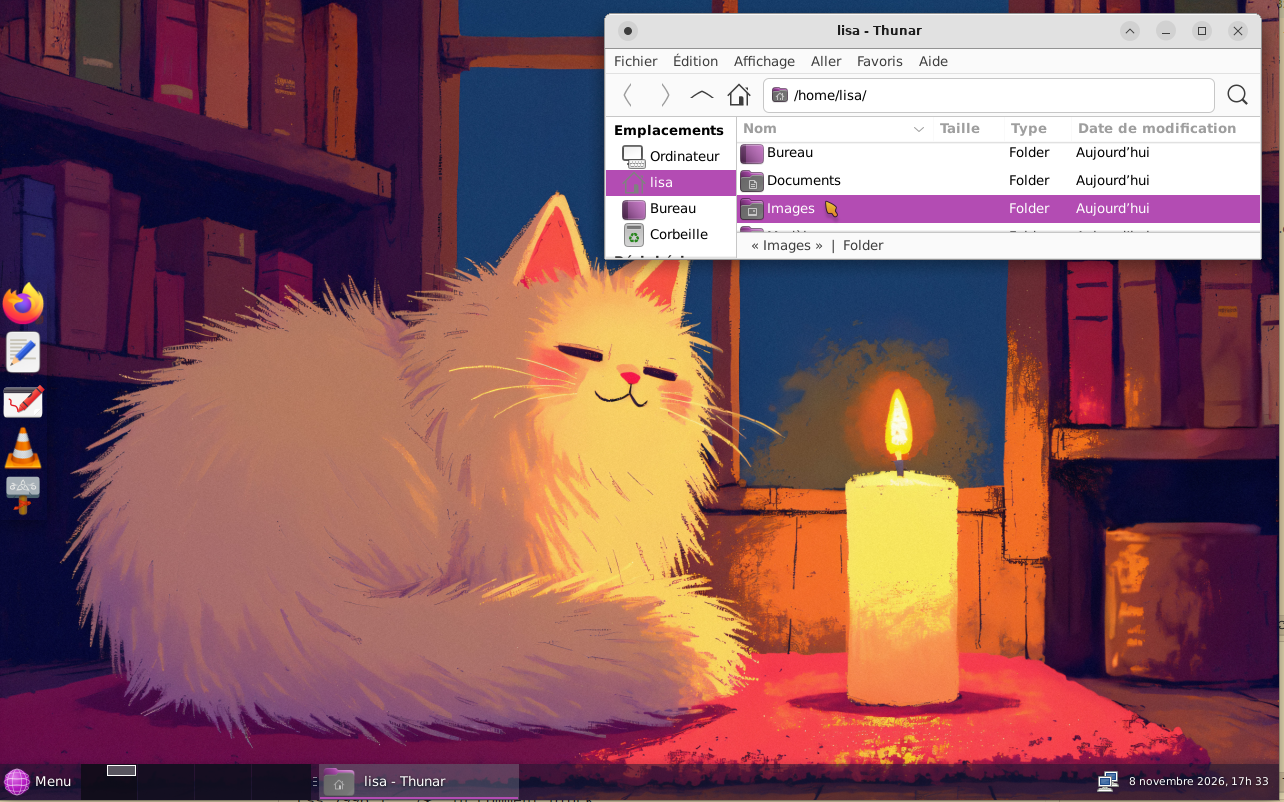
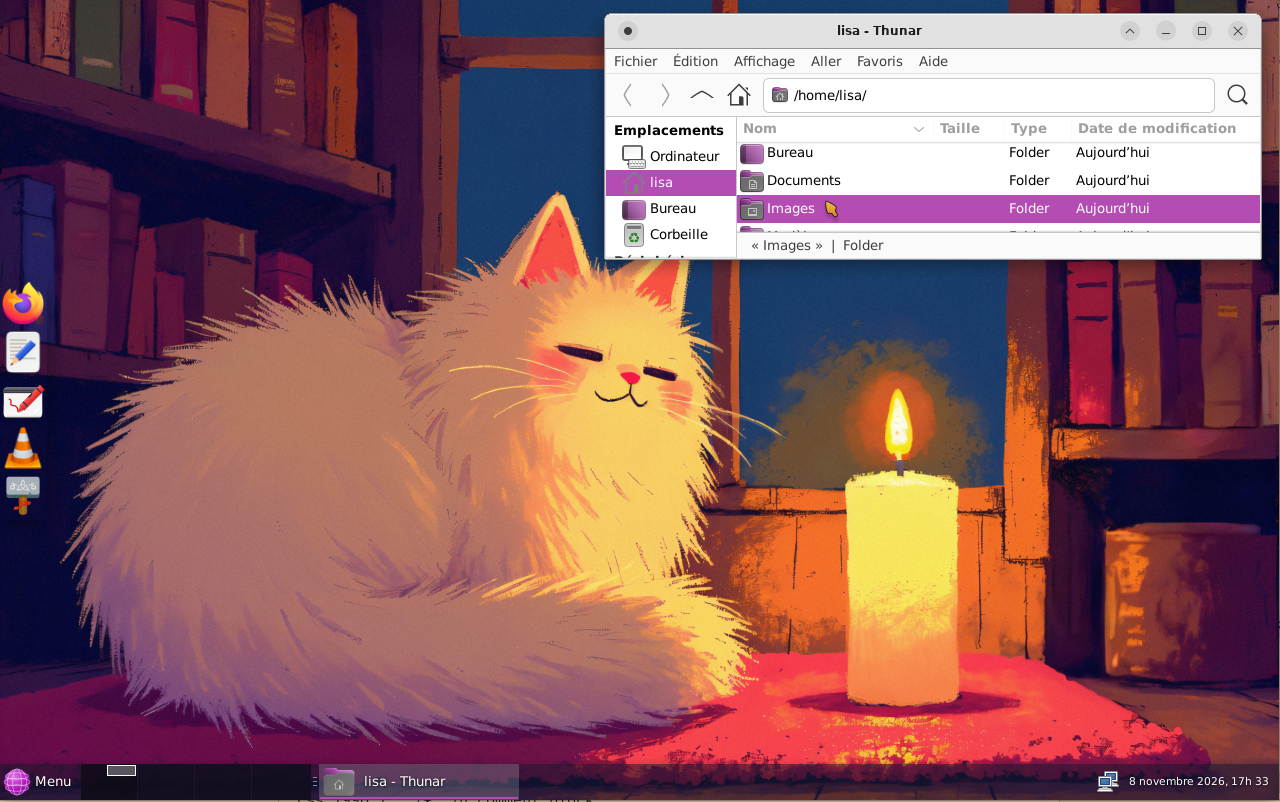
style: customized launching screen and firefox theme

diff --git a/config/includes.chroot_after_packages/usr/lib/firefox-esr/defaults/pref/autoconfig.js b/config/includes.chroot_after_packages/usr/lib/firefox-esr/defaults/pref/autoconfig.js
@@ -1,0 +1,6 @@
+// Active le mécanisme AutoConfig de Firefox pour appliquer le thème « Alpenglow »
+// au premier démarrage (voir ../../kids.cfg). sandbox_enabled=false est requis
+// pour accéder à AddonManager depuis le script de configuration.
+pref("general.config.filename", "kids.cfg");
+pref("general.config.obscure_value", 0);
+pref("general.config.sandbox_enabled", false);

diff --git a/README.md b/README.md
@@ -3,7 +3,9 @@
 Un système GNU/Linux minimaliste basé sur Debian 13 « trixie », pensé pour
 les enfants : simplicité, autonomie et initiation à l'informatique.
 
-![Default desktop](screenshots/default_desktop.png)
+![Écran de démarrage](screenshots/default_boot_splash.png)
+
+![Bureau par défaut](screenshots/default_desktop.png)
 
 Applications : Firefox ESR, LibreOffice (texte, présentation), Gedit,
 Thunar, VLC, Drawing, Galculator, Atril (PDF), Scratch (en ligne).
@@ -49,6 +51,9 @@ puis recopier `~/.config/` dans `etc/skel/` du dépôt.
   ComixCursors-Orange, bureau sans icônes.
 - Fond d'écran « chat endormi à la bougie » en mode zoom : remplit
   l'écran à toutes les résolutions, sans déformation.
+- Écran de démarrage Plymouth « kids » : icône du projet sur tuile
+  magenta, mention « debian 13 » (typographie Debian d'origine), adapté à
+  toute résolution.
 - Thunar en vue liste ; correcteur orthographique français actif partout
   (dictionnaires hunspell-fr, surlignage gedit activé via dconf).
 
@@ -60,7 +65,7 @@ une clé dépendant du connecteur du moniteur.
 
 ## Firefox
 
-![Default Firefox start page](screenshots/default_firefox_start_page.png)
+![Page Firefox par défaut](screenshots/default_firefox_start_page.png)
 
 Configuré par `etc/firefox/policies/policies.json` (politiques
 d'entreprise) et `usr/lib/firefox-esr/distribution/distribution.ini`
@@ -71,9 +76,11 @@ d'entreprise) et `usr/lib/firefox-esr/distribution/distribution.ini`
   Scratch, 1jour1actu), Wikipédia en accès direct. Page d'accueil : Lumni.
 - Moteur par défaut : Qwant Junior (résultats adaptés aux enfants, choix
   verrouillé). Assistant IA : Le Chat Mistral.
+- Thème Alpenglow (dégradé violet/magenta) assorti au style de l'OS,
+  appliqué au 1er lancement par AutoConfig (`kids.cfg`).
 - Allégé : télémétrie, études, comptes et mises à jour internes
-  désactivés ; pas de popups mots de passe/formulaires ni page de
-  bienvenue.
+  désactivés ; importation de profil et popups mots de passe/formulaires
+  désactivés ; pas de page de bienvenue.
 
 ## Contrôle parental
 
@@ -117,9 +124,11 @@ s'endort le lendemain.
 | `config/hooks/normal/0520-grub-timeout.binary` | Menu GRUB UEFI : 3 s |
 | `config/hooks/normal/0530-dconf-defaults.hook.chroot` | Compile les défauts dconf |
 | `config/hooks/normal/0540-kids-slim.hook.chroot` | Purge les paquets superflus tirés par les « Recommends » |
-| `config/includes.chroot_after_packages/etc/` | DNS familial, politiques Firefox, couvre-feu, dconf, skel XFCE |
+| `config/hooks/normal/0550-plymouth-theme.hook.chroot` | Embarque le thème Plymouth « kids » dans l'initramfs |
+| `config/includes.chroot_after_packages/etc/` | DNS familial, politiques Firefox, Plymouth, couvre-feu, dconf, skel XFCE |
 | `config/includes.chroot_after_packages/usr/lib/firefox-esr/distribution/` | Marque-pages de la barre personnelle |
-| `config/includes.chroot_after_packages/usr/share/` | Fond d'écran, icône du Menu |
+| `config/includes.chroot_after_packages/usr/lib/firefox-esr/kids.cfg` | AutoConfig : applique le thème Alpenglow |
+| `config/includes.chroot_after_packages/usr/share/` | Fond d'écran, icône du Menu, thème Plymouth |
 | `build.sh` / `clean.sh` | Scripts pratiques |
 
 ## Réglages par défaut
